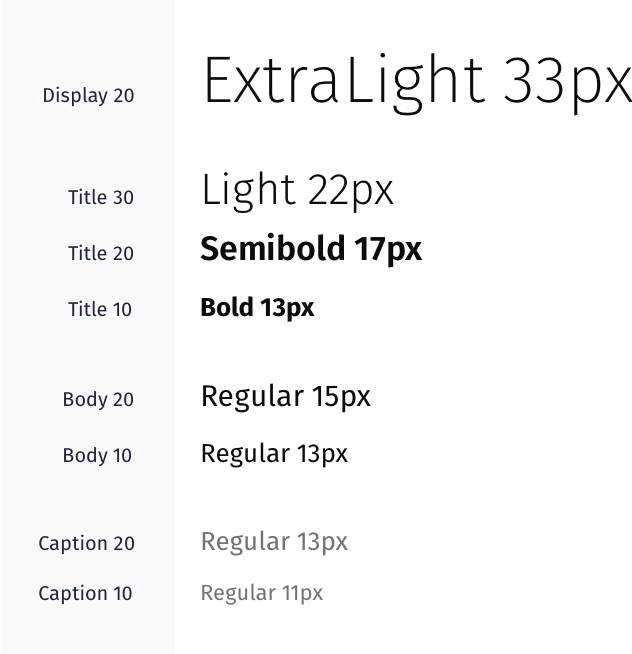
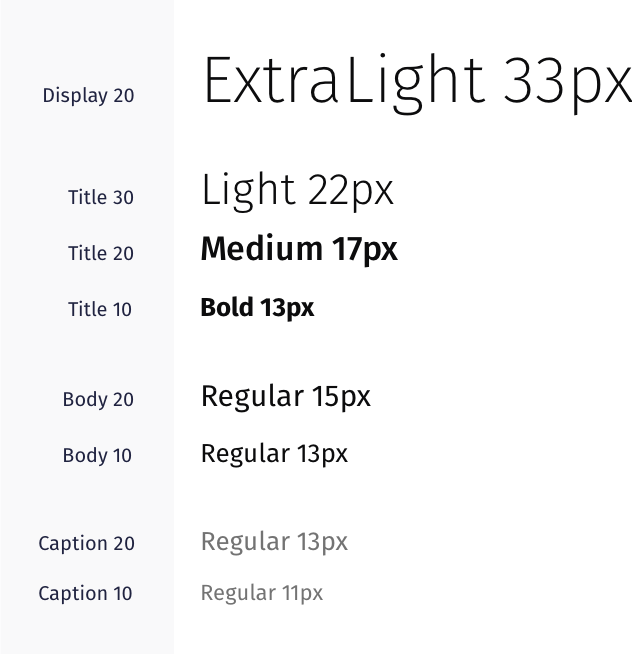
Deploy 7d9aee2f452d...52ce0317e58a to GitHub Pages.

Changed region(s): [[0.3006, 0.3364, 0.6614, 0.4281]]

diff --git a/contents/visual/typography.html b/contents/visual/typography.html
@@ -118,7 +118,7 @@
   </div>
   <h3>Emphasis</h3>
   <p>
-    Use a bolder font weight <code>600</code> for body or caption to emphasize the most important information.
+    Use Semibold <code>600</code> on Windows and macOS, Medium <code>500</code> on Linux and web products for body or caption to emphasize the most important information.
   </p>
   <figure>
     <img class="w-100-ns outline outline--black-01 outline-offset--1" src="../images/typography/emphasis.png" alt="Emphasis example">
